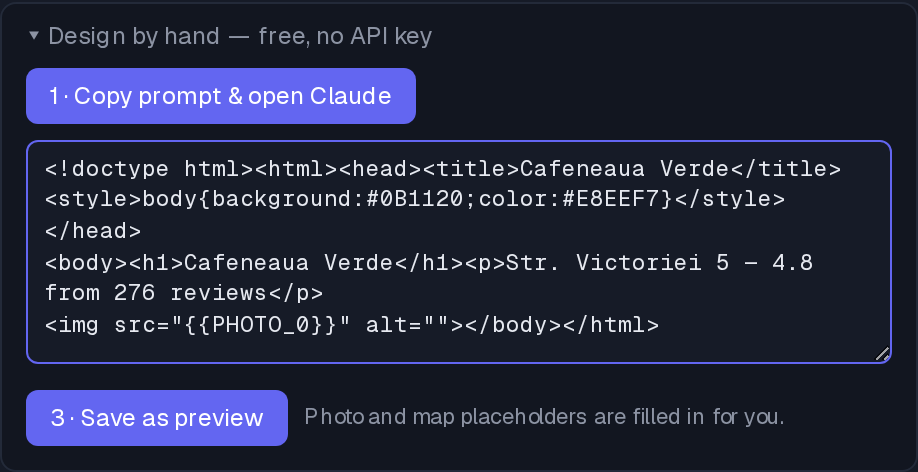
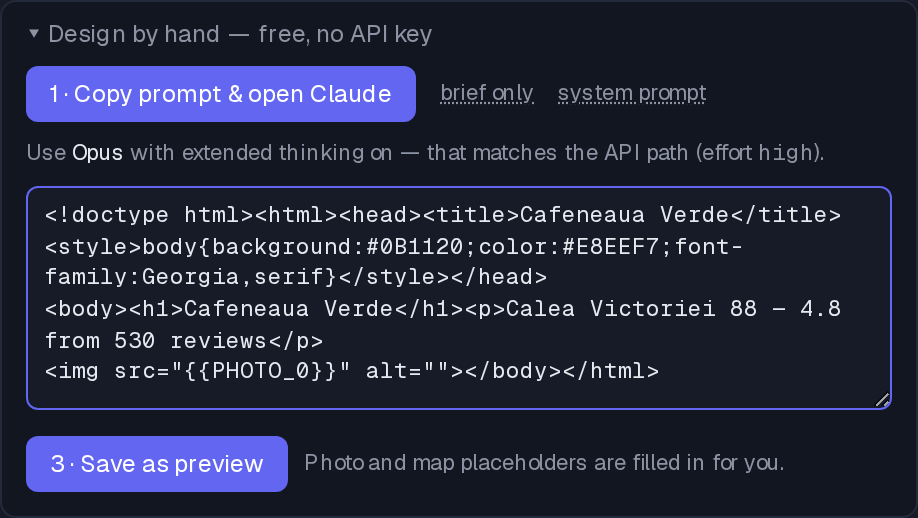
Add Project-friendly prompt copying to the manual design panel
The system half of the brief is identical for every business, so pasting it per
site is waste. GET ?part=system|user now returns either half bare, and the panel
exposes both: paste the system half once into a chat Project's instructions,
then only the business brief goes in each time — 9,745 chars down to 2,335.

Also surfaces the settings the API path uses (Opus, extended thinking, matching
effort: high), since the point of the manual route is to reproduce that output
by hand and the model choice is not guessable from the prompt alone.

diff --git a/src/components/LeadsTable.tsx b/src/components/LeadsTable.tsx
@@ -327,19 +327,34 @@ function ManualDesign({
   const [note, setNote] = useState<string | null>(null);
   const [err, setErr] = useState<string | null>(null);
 
-  async function copyPromptAndOpen() {
+  /**
+   * Copy one of the prompt forms to the clipboard.
+   *
+   * `full` also opens a chat tab. It reuses the browser's own session, so you stay
+   * signed in — nothing here touches the chat page itself beyond opening it.
+   */
+  async function copyPrompt(part: "full" | "user" | "system", openTab = false) {
     setErr(null);
     setNote(null);
     try {
-      const res = await fetch(`/api/preview/${lead.id}/manual`);
+      const qs = part === "full" ? "" : `?part=${part}`;
+      const res = await fetch(`/api/preview/${lead.id}/manual${qs}`);
       if (!res.ok) throw new Error(`Could not build the prompt (${res.status})`);
-      const text = await res.text();
-      // The response is a copy-paste document with instruction banners; the model
-      // only needs the two prompt sections, so drop the trailing "what to do next".
-      const brief = text.split("===== AFTER YOU GET THE HTML =====")[0].trim();
-      await navigator.clipboard.writeText(brief);
-      window.open("https://claude.ai/new", "_blank", "noopener");
-      setNote("Prompt copied. Paste it in the new tab, then paste the HTML back below.");
+      let text = await res.text();
+      if (part === "full") {
+        // The full response is a copy-paste document with instruction banners; the
+        // model only needs the prompt sections, so drop the trailing "what next".
+        text = text.split("===== AFTER YOU GET THE HTML =====")[0].trim();
+      }
+      await navigator.clipboard.writeText(text);
+      if (openTab) window.open("https://claude.ai/new", "_blank", "noopener");
+      setNote(
+        part === "system"
+          ? "System prompt copied — paste it into your Project's instructions once."
+          : part === "user"
+            ? "Business brief copied. Paste it into your Project chat."
+            : "Prompt copied. Paste it in the new tab, then paste the HTML back below.",
+      );
     } catch (e) {
       setErr((e as Error).message);
     }
@@ -384,13 +399,38 @@ function ManualDesign({
 
       {open && (
         <div className="px-3 pb-3 space-y-2">
-          <button
-            type="button"
-            onClick={copyPromptAndOpen}
-            className="rounded-md px-3 py-1.5 text-xs bg-[var(--accent,#7c3aed)] text-white hover:opacity-90"
-          >
-            1 · Copy prompt &amp; open Claude
-          </button>
+          <div className="flex flex-wrap items-center gap-x-3 gap-y-1.5">
+            <button
+              type="button"
+              onClick={() => copyPrompt("full", true)}
+              className="rounded-md px-3 py-1.5 text-xs bg-[var(--accent,#7c3aed)] text-white hover:opacity-90"
+            >
+              1 · Copy prompt &amp; open Claude
+            </button>
+            {/* The system half never changes, so it can live in a Project's
+                instructions — then only the short business brief is pasted. */}
+            <button
+              type="button"
+              onClick={() => copyPrompt("user")}
+              title="Just the per-business half — for a Project that already holds the system prompt"
+              className="text-[11px] text-[var(--muted)] hover:text-[var(--text)] underline decoration-dotted"
+            >
+              brief only
+            </button>
+            <button
+              type="button"
+              onClick={() => copyPrompt("system")}
+              title="The unchanging half — paste once into a Project's custom instructions"
+              className="text-[11px] text-[var(--muted)] hover:text-[var(--text)] underline decoration-dotted"
+            >
+              system prompt
+            </button>
+          </div>
+
+          <p className="text-[11px] text-[var(--muted)]">
+            Use <span className="text-[var(--text)]">Opus</span> with extended
+            thinking on — that matches the API path (effort <code>high</code>).
+          </p>
 
           <textarea
             value={html}

diff --git a/src/app/api/preview/[leadId]/manual/route.ts b/src/app/api/preview/[leadId]/manual/route.ts
@@ -62,7 +62,7 @@ async function loadContext(leadId: string) {
 }
 
 export async function GET(
-  _req: NextRequest,
+  req: NextRequest,
   { params }: { params: Promise<{ leadId: string }> },
 ) {
   const { leadId } = await params;
@@ -77,6 +77,18 @@ export async function GET(
     Boolean(mapUri),
     lead.previewVariant ?? 0,
   );
+
+  // ?part=system / ?part=user return one half, bare and banner-free.
+  //
+  // The system half is identical for every business, so it belongs in a chat
+  // Project's custom instructions — set once, then only the per-business brief
+  // gets pasted each time, which is roughly half the text.
+  const part = req.nextUrl.searchParams.get("part");
+  if (part === "system" || part === "user") {
+    return new NextResponse(part === "system" ? system : user, {
+      headers: { "Content-Type": "text/plain; charset=utf-8" },
+    });
+  }
 
   // Plain text, not JSON: this is meant to be copied straight out of the terminal
   // or browser into a chat box, and JSON escaping would make that miserable.
